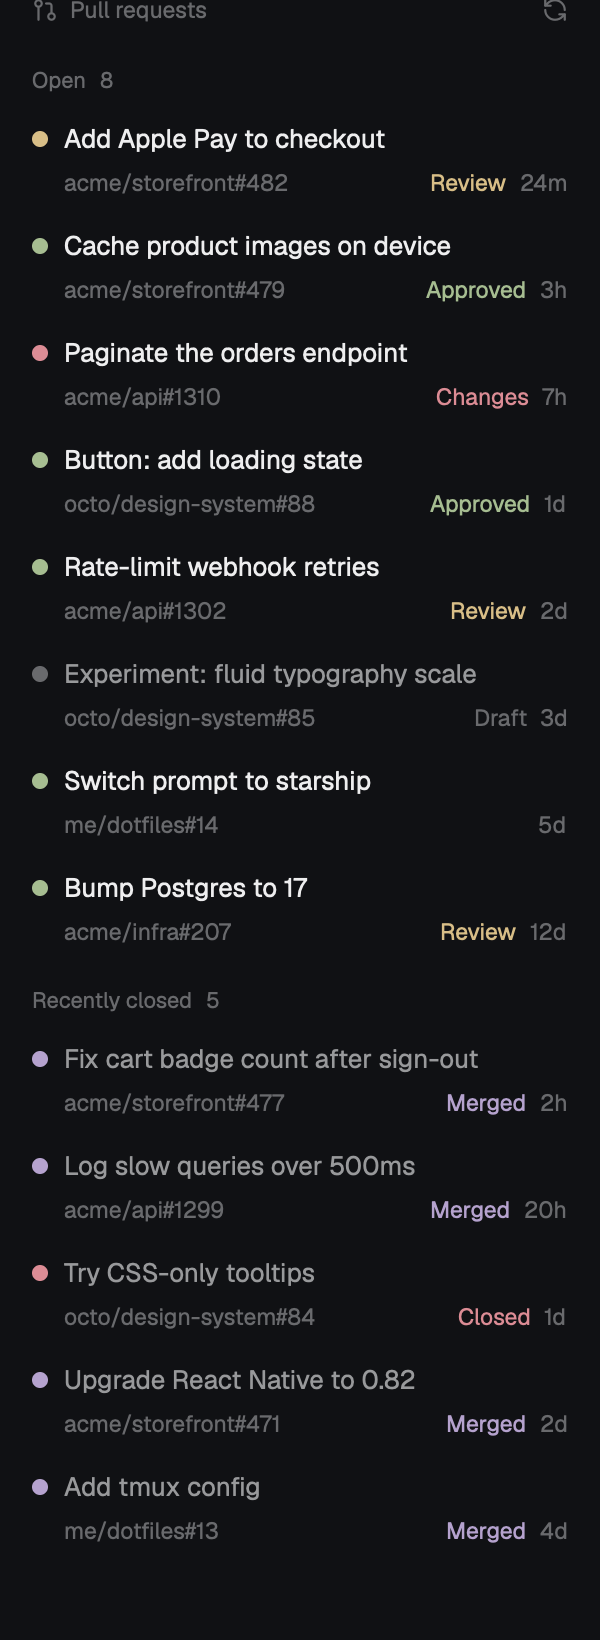
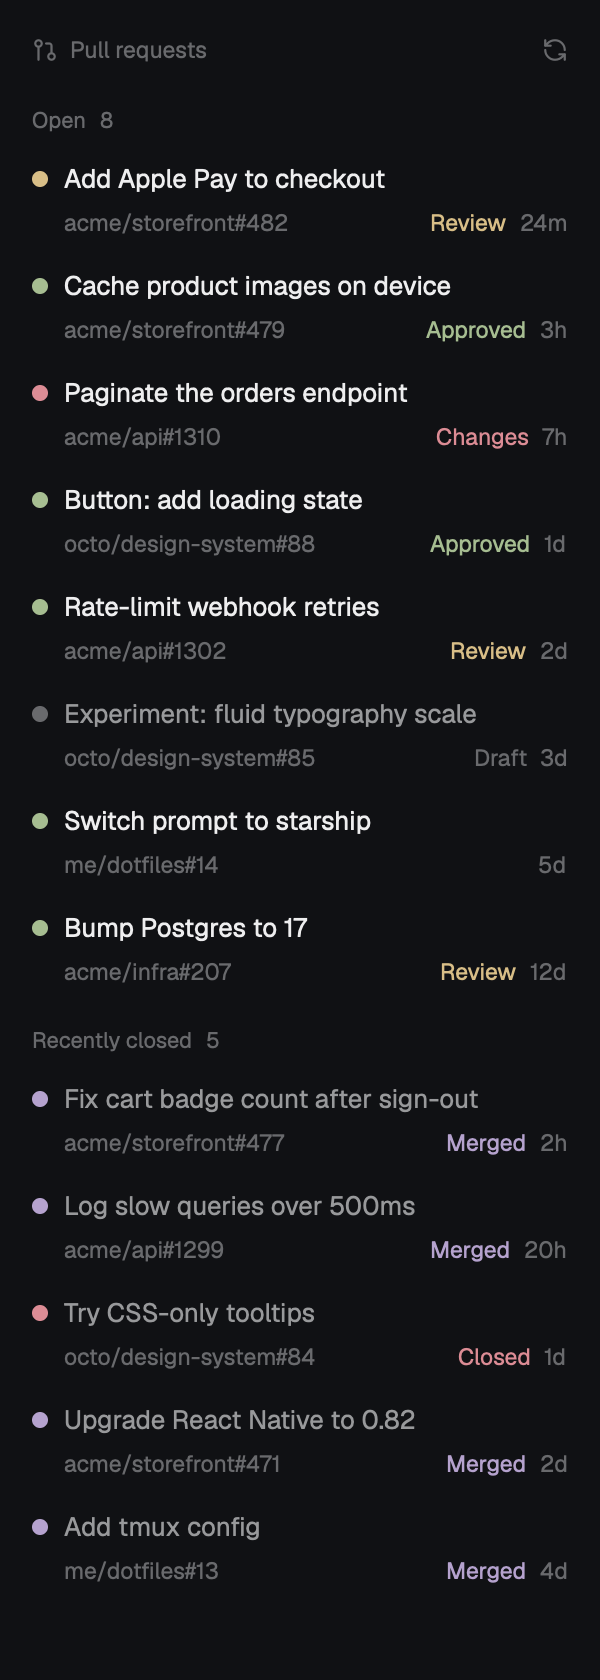
Update README.md and preview image

diff --git a/README.md b/README.md
@@ -1,8 +1,8 @@
-# Herdr PRs
+# herdr-prs
 
-A sidebar of your GitHub pull requests for the [Herdr](https://herdr.dev) desktop app: the 15 open ones with the latest activity, and the 5 you merged or closed most recently.
+A simple mod for the [Herdr](https://herdr.dev) desktop app that shows GitHub pull requests.
 
-![The PR sidebar](preview.png)
+<img src="preview.png" alt="The PR sidebar" width="300">
 
 - **Open PRs at a glance.** A dot for CI (green passed, red failed, yellow running, grey no checks), the repo and number, the review state (Review, Approved, Changes, Draft) and how long ago it last changed.
 - **Recently closed.** The last 5 merged (purple) or closed (red) PRs, with when they closed.
